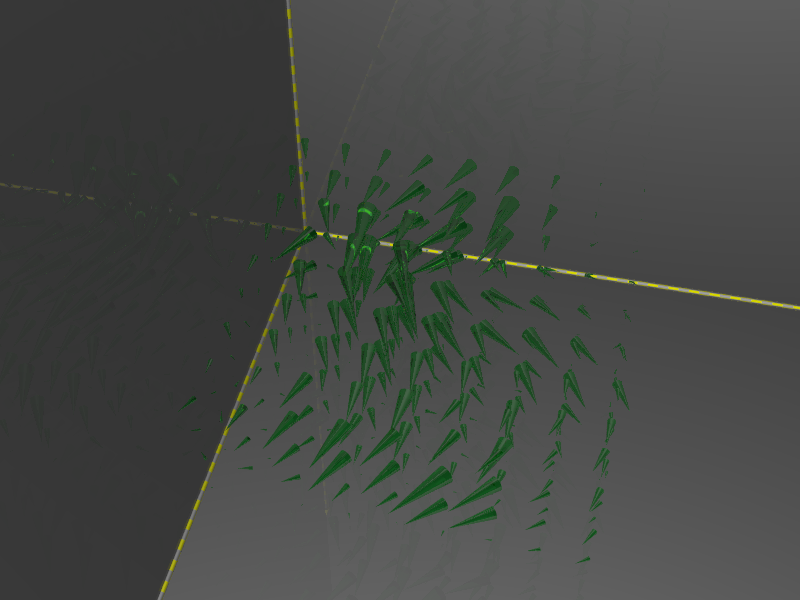
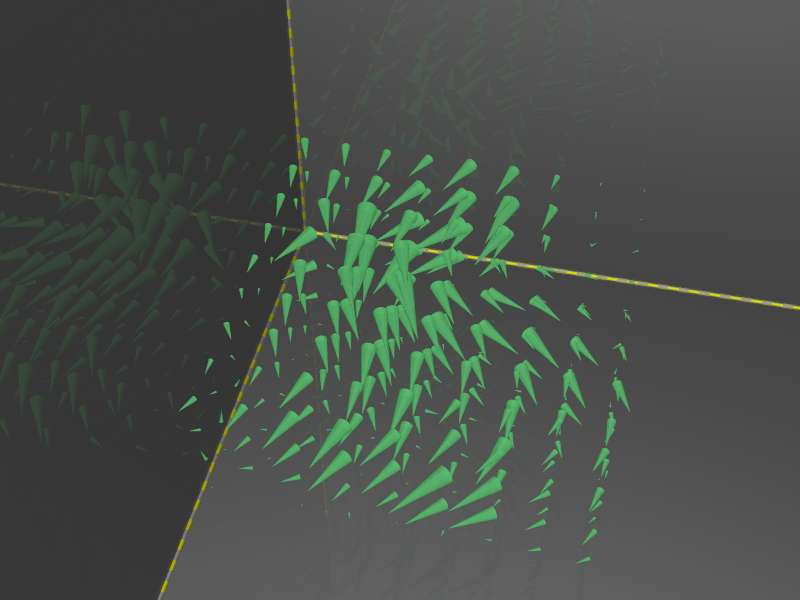
Conplot: different materials

diff --git a/examples/cone_plot.m b/examples/cone_plot.m
@@ -22,6 +22,7 @@ end
 pov.scene_begin('scene_file', 'coneplot.pov', 'image_file', 'coneplot.png');
 pov.include("textures");
 pov.include("glass");
+pov.include("golds");
 
 pov.global_settings("assumed_gamma 1");
 
@@ -97,7 +98,8 @@ p = 15
 [Cx, Cy, Cz] = meshgrid(1:4:m,1:4:n,1:4:p);
 
 % pov.coneplot_material();
-pov.coneplot_material('finish', 'Metal', 'interior', 'ior 1.1', 'alpha', 1.0);
+pov.coneplot_material('finish', 'Glossy', 'interior', 'ior 1.5', 'alpha', 0.3);
+%pov.coneplot_material('finish', 'Metal', 'interior', 'ior 1.1', 'alpha', 0.3);
 % pov.coneplot_material('finish', 'crand 0.01', 'interior', 'I_Glass', 'alpha', 1.0);
 h = pov.coneplot(u,v,w,Cx,Cy,Cz,y,5);
 set(h,'EdgeColor', 'none')
